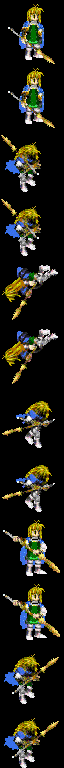
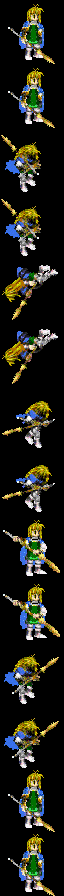
Ash Jenna, Kegare and Sarah breathe (second idle drawing, looping idle); Ash Jenna keeps her eye glint
Claude-Session: https://claude.ai/code/session_01DQWC7xTsxVudAbpPbiVFX3

diff --git a/tools/dark_story/make_breath_frames.py b/tools/dark_story/make_breath_frames.py
@@ -1,0 +1,32 @@
+#!/usr/bin/env python3
+"""Makes each boss's "breathing in" idle drawing: the standing pose with two
+rows repeated, at the chest and the waist, and the feet left where they are, so
+the head and shoulders rise about two pixels. The battle sheets loop the idle
+between the two drawings (build_heart_art.py, build_ash_jenna_art.py,
+build_kegare_art.py, build_sarah_art.py)."""
+from pathlib import Path
+
+import numpy as np
+from PIL import Image
+
+ROOT = Path(__file__).resolve().parents[2]
+JOBS = [("ash_jenna/v2/idle1.png", "ash_jenna/v2/idle_breath.png"),
+        ("kegare/idle1.png", "kegare/idle_breath.png"),
+        ("sarah/idle_new.png", "sarah/idle_breath.png"),
+        ("heart/v2/idle1.png", "heart/v2/idle2.png")]
+for source, dest in JOBS:
+    src = Image.open(ROOT / "assets" / source).convert("RGBA")
+    l, t, r, b = src.getchannel("A").getbbox()
+    art = np.asarray(src.crop((l, t, r, b)))
+    h = art.shape[0]
+    rows = []
+    for y in range(h):
+        rows.append(art[y])
+        if y in (int(h * 0.35), int(h * 0.62)):
+            rows.append(art[y])
+    new = np.stack(rows)
+    assert t - 2 >= 0, (source, t)
+    out = Image.new("RGBA", src.size, (0, 0, 0, 0))
+    out.alpha_composite(Image.fromarray(new), (l, b - new.shape[0]))
+    out.save(ROOT / "assets" / dest)
+    print(dest, "rows", h, "->", new.shape[0], "bbox", out.getchannel("A").getbbox())

diff --git a/tools/dark_story/build_ash_jenna_art.py b/tools/dark_story/build_ash_jenna_art.py
@@ -28,14 +28,15 @@ DEST = ROOT / "games/tbs/src/graphics/monster/slime.png"
 SHARED_PALETTE = ROOT / "games/tbs/src/system/memory/basic.png"
 
 FRAME = 64
-FRAMES = 12
+FRAMES = 14
 # Frame -> supplied pose; the other frame of each pair is a copy.
 # The supplied poses are drawn at full size (about 57 rows tall); the size on
 # screen comes from SPR_477's scale column in sprites.tsv (0xb6, which puts her
 # idle pose at Menardi's 40 or so rows), so the art itself is not resampled.
 SCALE = 1.0
 STEPS = {0: "idle1", 2: "dash", 4: "attack", 6: "cast", 8: "damage",
-         10: "idle_glint"}   # idle with the red eye flared
+         10: "idle_glint",   # idle with the red eye flared
+         12: "idle_breath"}  # breathing in (make_breath_frames.py)
 
 palette = Image.open(SHARED_PALETTE).getpalette()[:224 * 3]
 colors = np.array(palette, dtype=np.float64).reshape(-1, 3)

diff --git a/tools/dark_story/build_kegare_art.py b/tools/dark_story/build_kegare_art.py
@@ -29,14 +29,15 @@ DEST = ROOT / "games/tbs/src/graphics/monster/kegare.png"
 SHARED_PALETTE = ROOT / "games/tbs/src/system/memory/basic.png"
 
 FRAME = 64
-FRAMES = 10
+FRAMES = 12
 # Frame -> supplied pose; the other frame of each pair is a copy.
 # The supplied poses are drawn at full size (about 57 rows tall); the size on
 # screen comes from SPR_477's scale column in sprites.tsv (0xb6, which puts her
 # idle pose at Menardi's 40 or so rows), so the art itself is not resampled.
 SCALE = 1.0
 STEPS_MIA = {"damage": 12}
-STEPS = {0: "idle1", 2: "dash", 4: "attack", 6: "cast", 8: "damage"}
+STEPS = {0: "idle1", 2: "dash", 4: "attack", 6: "cast", 8: "damage",
+         10: "idle_breath"}   # breathing in (make_breath_frames.py)
 
 palette = Image.open(SHARED_PALETTE).getpalette()[:224 * 3]
 colors = np.array(palette, dtype=np.float64).reshape(-1, 3)

diff --git a/tools/dark_story/build_sarah_art.py b/tools/dark_story/build_sarah_art.py
@@ -30,10 +30,11 @@ DEST = ROOT / "games/tbs/src/graphics/monster/sarah.png"
 SHARED_PALETTE = ROOT / "games/tbs/src/system/memory/basic.png"
 
 FRAME = 64
-FRAMES = 12
+FRAMES = 14
 # Frame -> supplied pose; the other frame of each pair is a copy.
 MIRROR = {"dive"}  # drawn diving to the right; the lunge toward the target is left
-STEPS = {0: "idle_new", 2: "rise", 4: "dive", 6: "attack_leap", 8: "idle1", 10: "damage"}
+STEPS = {0: "idle_new", 2: "rise", 4: "dive", 6: "attack_leap", 8: "idle1", 10: "damage",
+         12: "idle_breath"}   # breathing in (make_breath_frames.py)
 
 palette = Image.open(SHARED_PALETTE).getpalette()[:224 * 3]
 colors = np.array(palette, dtype=np.float64).reshape(-1, 3)
